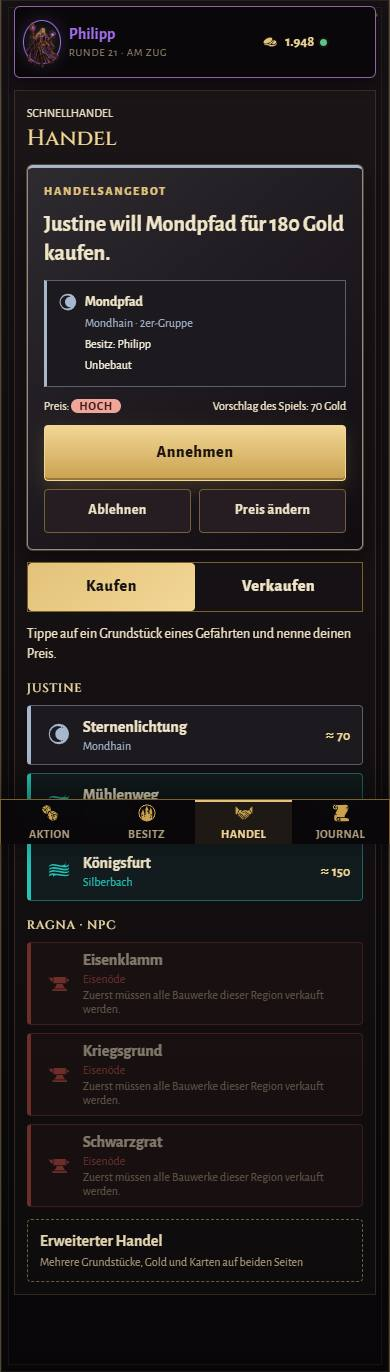
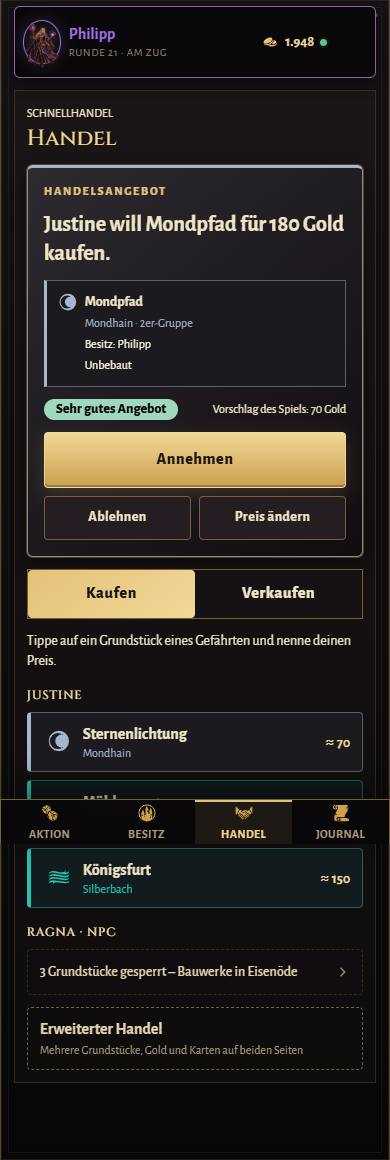
docs(design): screenshots for the quick trade and credits follow-ups
Replaces the quick trade offer image (now with the viewer-based verdict)
and adds the collapsed blocked-properties row and the contributors dialog.

diff --git a/docs/design/codex/README.md b/docs/design/codex/README.md
@@ -13,4 +13,12 @@ Ausgewählte Ansichten aus `/visual-qa` vor und nach der Umstellung auf das Desi
 | Am Zug (Handy) | ![](controller-turn-390-vorher.jpg) | ![](controller-turn-390-nachher.jpg) |
 | Zahlung (Handy) | ![](mobile-finance-390-vorher.jpg) | ![](mobile-finance-390-nachher.jpg) |
 
+## Nachbesserungen
+
+| Ansicht | Bild |
+| --- | --- |
+| Schnellhandel: Preisbewertung aus Sicht des Betrachters (hier Verkäufer, grün) | ![](mobile-quick-trade-incoming-390-nachher.jpg) |
+| Gesperrte Grundstücke als einklappbare Zeile je Region | ![](quick-trade-blocked-390.jpg) |
+| „Mitwirkende“ in der Lobby (Produktions-Build) | ![](credits-1920.jpg) |
+
 Neu erzeugen: Dev-Server starten (`npm run dev`) und die Szenen unter `http://localhost:5173/visual-qa?scene=<name>` in beiden Breiten aufnehmen.
